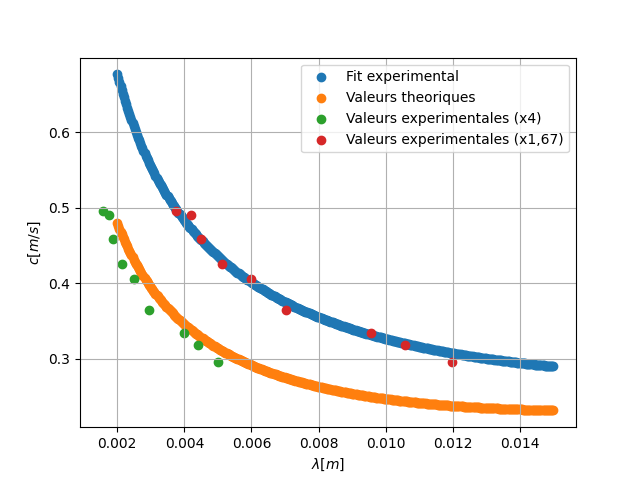
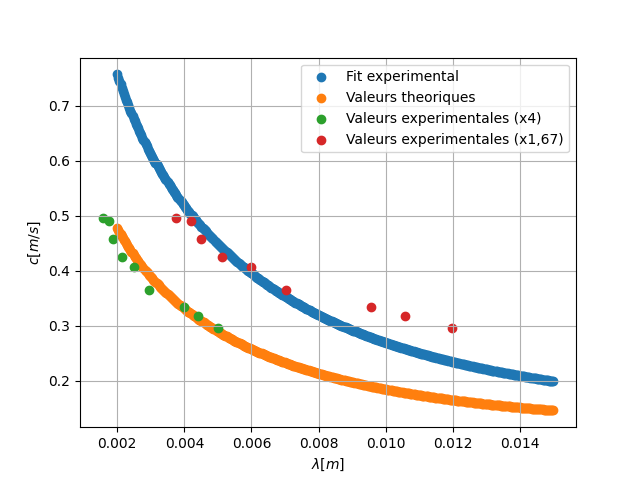
foo

diff --git a/physique/2/phy_1B/fit_lambda.py b/physique/2/phy_1B/fit_lambda.py
@@ -1,0 +1,41 @@
+import numpy as np
+import matplotlib.pyplot as plt
+from scipy.optimize import curve_fit
+
+pi = np.pi
+f = 50000  # Hz
+w = 2 * pi * f
+E0 = 5 
+x_offset = 0
+
+def v_theorique(x, E0, k):
+    t = 1 
+    return 2 * E0 * np.sin(k * x)
+
+
+def fit_function(x, E0, k):
+    return v_theorique(x, E0, k)
+Upp = [261,235,181,177,169,193,197,212,240,269,294,323,342,356,354,335,308,271,229,201,181,191,205,223,263,297,324,360,382,406,402,386,358,316,277,241,230,239,255,287,326]
+Ueff = [165,143,104,101,97 ,110,118,130,146,162,179,198,207,222,222,214,190,171,139,121,110,111,121,132,154,178,197,220,230,248,246,240,220,197,170,154,144,149,158,177,204]
+#pos = np.array[42.7,42.6,42.5,42,4,42,3,42,2,42,1,42,41,9,41,8,41,7,41,6,41,5,41,4,41,3,41,2,41,1,41,40,9,40,8,40,7,40,6,40,5,40,4,40,3,40,2,40,1,40,39,9,39,8,39,7,39,6,39,5,39,4,39,3,39,2,39,1,39,38,9,38,8,38,7]
+pos = np.linspace(42.7, 38.7, 41)
+
+
+popt, pcov = curve_fit(fit_function, pos, Upp, p0=[1, 0.1])
+
+v_fit = fit_function(pos, *popt)
+
+plt.scatter(pos, Upp, label="Valeurs expérimentales", color='blue')
+plt.plot(pos, v_fit + 300, label="Fit théorique", color='red')
+plt.grid()
+plt.xlabel("Position (cm)")
+plt.ylabel(r"$\mathrm{U_{pp}} \ (V)$")
+plt.legend()
+plt.savefig("res.png")
+plt.show()
+
+# Résultat
+k_opt, E0_opt = popt
+lambda_opt = 2 * pi / k_opt
+print(f"La longueur d'onde ajustée est : {lambda_opt:.4f} cm")
+print(f"E0 ajusté : {E0_opt:.4f}")

diff --git a/physique/2/phy_1A/fit_gamma.py b/physique/2/phy_1A/fit_gamma.py
@@ -5,7 +5,7 @@ import matplotlib.pyplot as plt
 from scipy.optimize import curve_fit
 
 g = 9.81
-h = 0.01
+h = 0.001
 rho = 998
 
 def v_theorique(lambda_, gamma):
